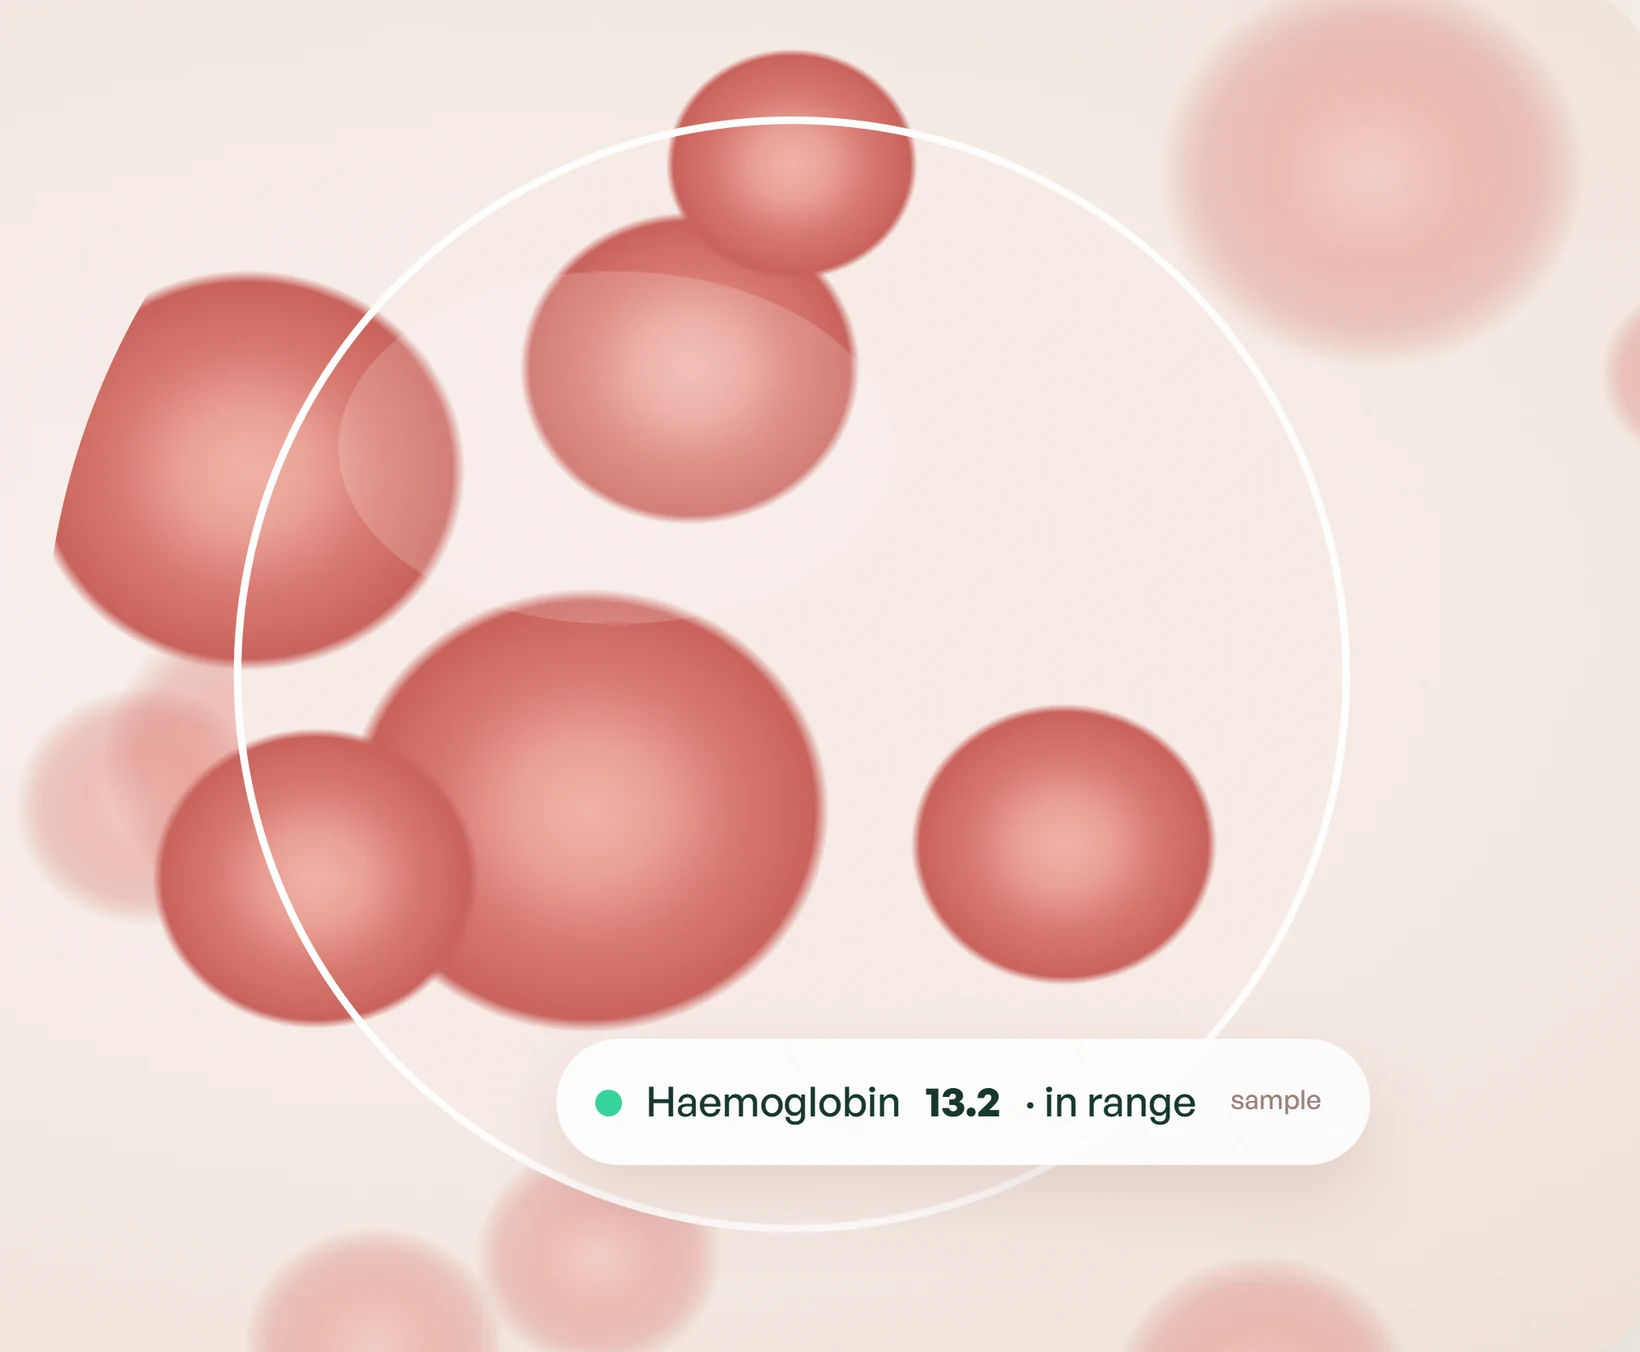
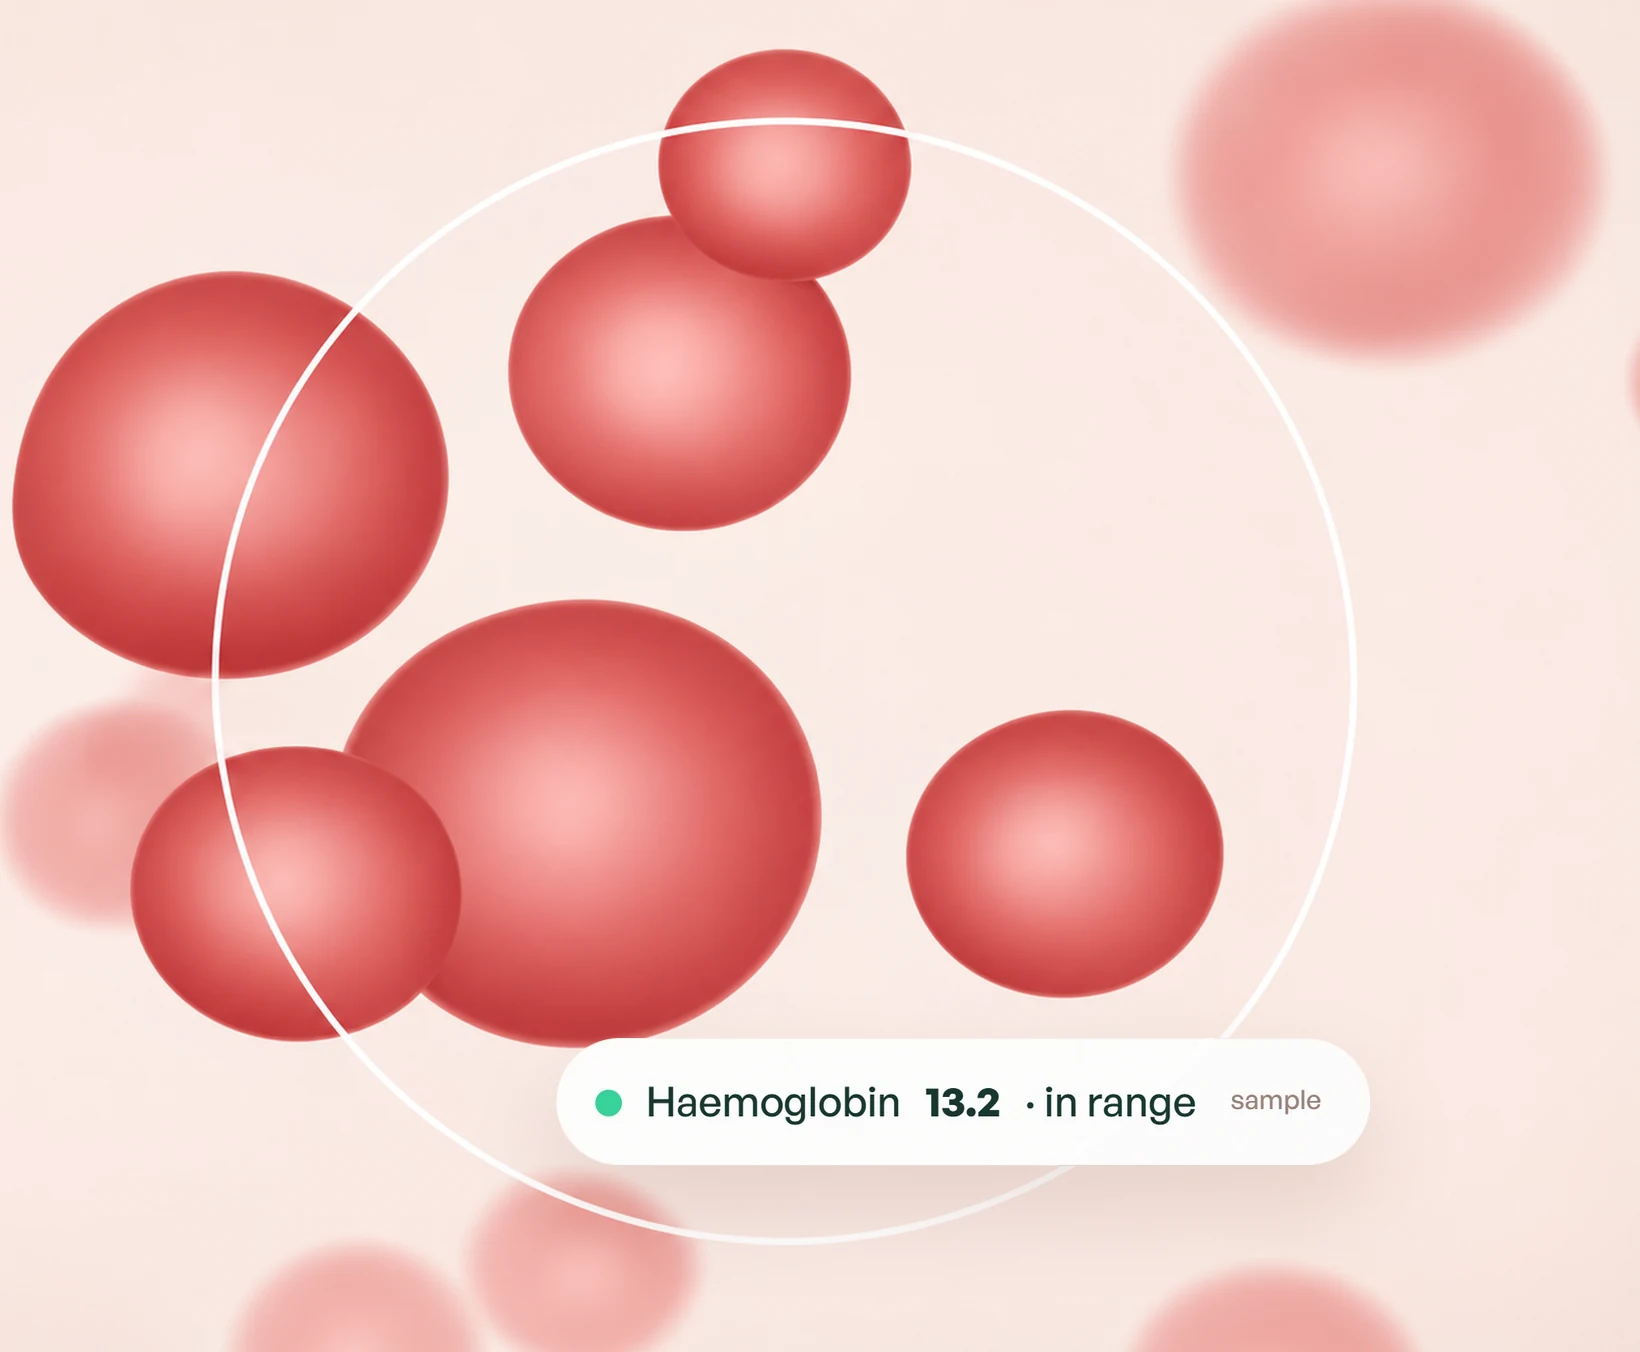
images: sharper blood-cell picture in the story (same size, same label, nothing else changed)

diff --git a/index.html b/index.html
@@ -117,18 +117,18 @@
         <div class="pp-card">
           <div class="pp-ph pp-sc" style="background:#0E151B"><img src="assets/img/sc-1.webp?v=2" alt="A lab report turned into three simple dials: liver worth a look, vitamin D a little low, sugar in range" loading="eager" decoding="async" /></div>
           <div class="pp-ph pp-sc" style="background:#D5E0D9;clip-path:circle(0 at 85% 87%)"><img src="assets/img/sc-2.webp?v=2" alt="A single blood tube with a PulsingLabs label" loading="lazy" decoding="async" /></div>
-          <div class="pp-ph pp-sc" style="background:#F5E9E3;clip-path:circle(0 at 85% 87%)"><img src="assets/img/sc-3.webp?v=2" alt="Blood cells under a lens, with a reading: haemoglobin in range" loading="lazy" decoding="async" /></div>
+          <div class="pp-ph pp-sc" style="background:#F5E9E3;clip-path:circle(0 at 85% 87%)"><img src="assets/img/sc-3.webp?v=3" alt="Blood cells under a lens, with a reading: haemoglobin in range" loading="lazy" decoding="async" /></div>
           <div class="pp-ph pp-sc" style="background:#0B201D;clip-path:circle(0 at 85% 87%)"><img src="assets/img/sc-4.webp?v=3" alt="Vitamin D rising from 18 to 29 to 38, back in the healthy range" loading="lazy" decoding="async" /></div>
           <div class="pp-ph pp-sc" style="background:#08110f;clip-path:circle(0 at 85% 87%)"><img src="assets/img/sc-5.webp" alt="A glowing orb of points with a health age of 29, five years younger" loading="lazy" decoding="async" /></div>
           <div class="pp-ph pp-sc" style="background:#15110b;clip-path:circle(0 at 85% 87%)"><img src="assets/img/sc-6.webp?v=2" alt="A house with one lit window per family member and their health age" loading="lazy" decoding="async" /></div>
           <span class="pp-th" aria-hidden="true" style="background:#D5E0D9 url(assets/img/sc-2.webp?v=2) center/contain no-repeat"></span>
-          <span class="pp-th" aria-hidden="true" style="background:#F5E9E3 url(assets/img/sc-3.webp?v=2) center/contain no-repeat"></span>
+          <span class="pp-th" aria-hidden="true" style="background:#F5E9E3 url(assets/img/sc-3.webp?v=3) center/contain no-repeat"></span>
           <span class="pp-th" aria-hidden="true" style="background:#0B201D url(assets/img/sc-4.webp?v=3) center/contain no-repeat"></span>
           <span class="pp-th" aria-hidden="true" style="background:#08110f url(assets/img/sc-5.webp) center/contain no-repeat"></span>
           <span class="pp-th" aria-hidden="true" style="background:#15110b url(assets/img/sc-6.webp?v=2) center/contain no-repeat"></span>
           <span class="pp-ring" aria-hidden="true"></span>
         </div>
-        <div class="pp-idx" aria-hidden="true"><span class="on" style="background:#0E151B url(assets/img/sc-1.webp?v=2) center/230% no-repeat"></span><span class="" style="background:#D5E0D9 url(assets/img/sc-2.webp?v=2) center/230% no-repeat"></span><span class="" style="background:#F5E9E3 url(assets/img/sc-3.webp?v=2) center/230% no-repeat"></span><span class="" style="background:#0B201D url(assets/img/sc-4.webp?v=3) center/230% no-repeat"></span><span class="" style="background:#08110f url(assets/img/sc-5.webp) center/230% no-repeat"></span><span class="" style="background:#15110b url(assets/img/sc-6.webp?v=2) center/230% no-repeat"></span></div>
+        <div class="pp-idx" aria-hidden="true"><span class="on" style="background:#0E151B url(assets/img/sc-1.webp?v=2) center/230% no-repeat"></span><span class="" style="background:#D5E0D9 url(assets/img/sc-2.webp?v=2) center/230% no-repeat"></span><span class="" style="background:#F5E9E3 url(assets/img/sc-3.webp?v=3) center/230% no-repeat"></span><span class="" style="background:#0B201D url(assets/img/sc-4.webp?v=3) center/230% no-repeat"></span><span class="" style="background:#08110f url(assets/img/sc-5.webp) center/230% no-repeat"></span><span class="" style="background:#15110b url(assets/img/sc-6.webp?v=2) center/230% no-repeat"></span></div>
         <p class="pp-cap">Sample results · fictional patient</p>
       </div>
     </div>
